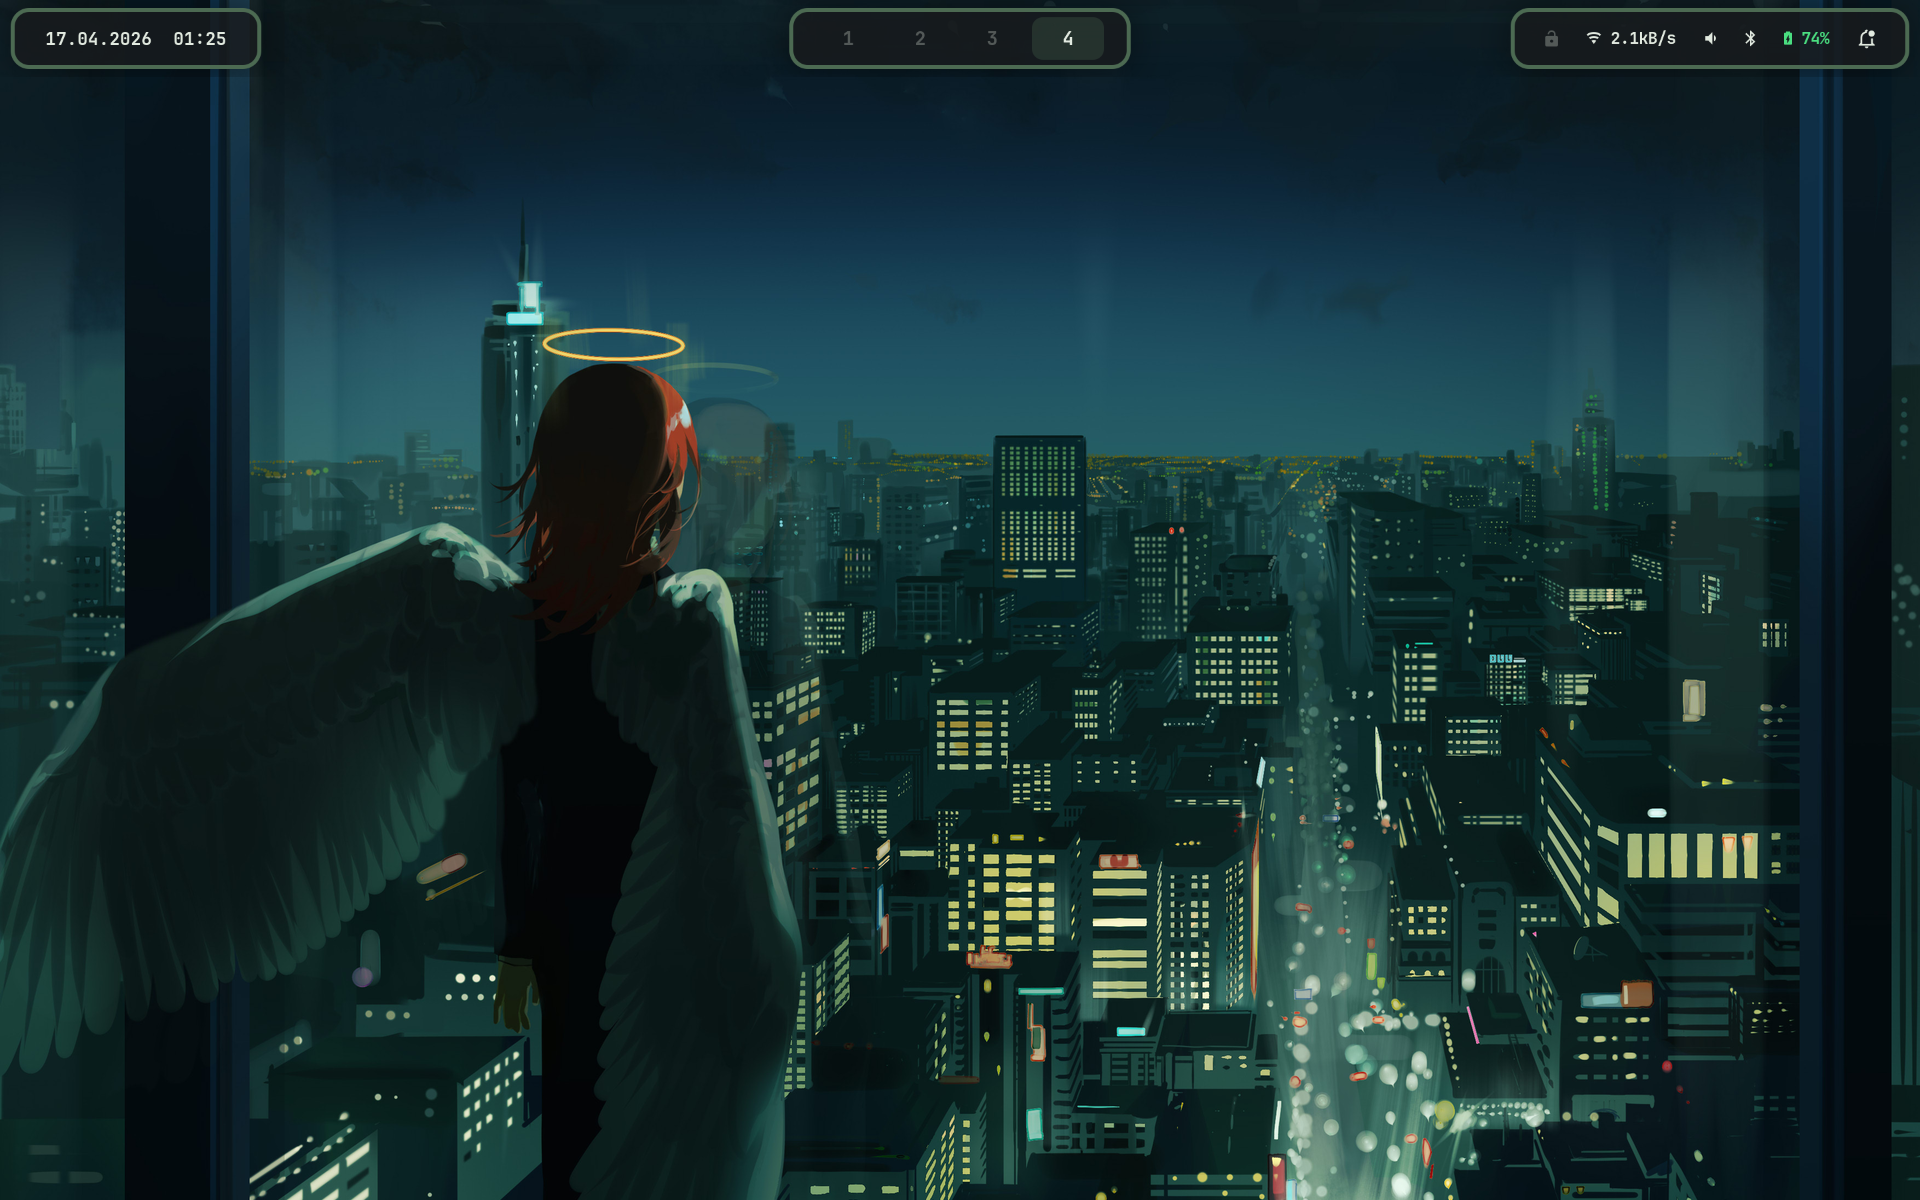
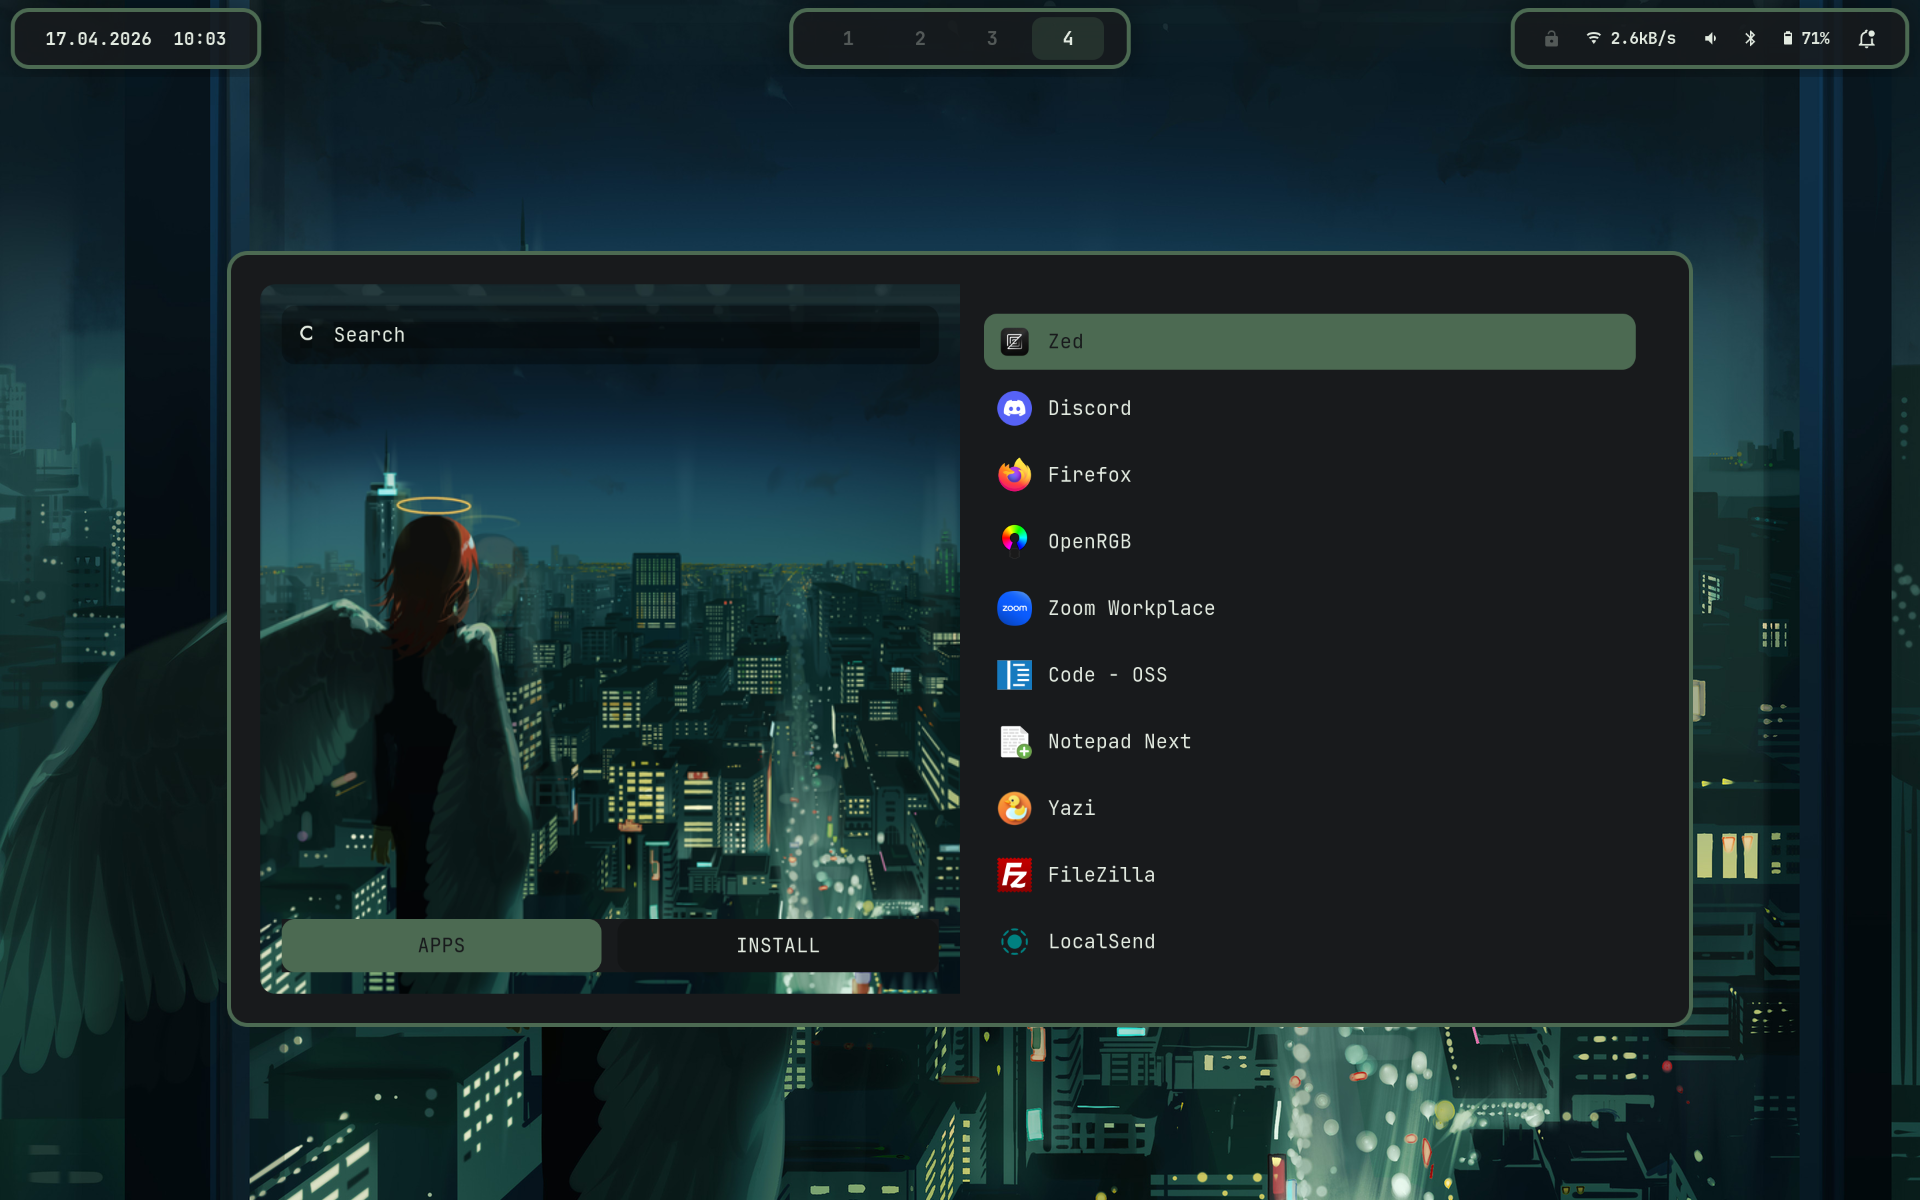
Enhance wallpaper picker, recorder, and README
Use relative paths in the wallpaper switcher so categories are
searchable and show those paths in rofi; add mainMod+Shift+G to
pick a random wallpaper. Increase rofi confirm dialog width.

Strip decimals from screenrecord geometry, add an EXIT trap to
clean the lockfile, and prefer h264 GPU encoding with CPU fallback.

Add overview and rofi menu screenshots and corresponding README
sections.

diff --git a/README.md b/README.md
@@ -32,6 +32,12 @@
 
 ## Screenshots
 
+### Overview
+
+<div align="center">
+  <img src="screenshots/overview.gif" width="900"/>
+</div>
+
 <table>
   <tr>
     <td align="center"><strong>Desktop Overview</strong></td>
@@ -50,6 +56,11 @@
     <td><img src="screenshots/hyprlock.png" width="430"/></td>
   </tr>
 </table>
+
+<div align="center">
+  <strong>Rofi Menus</strong><br/>
+  <img src="screenshots/rofi-menus-collage.png" width="900"/>
+</div>
 
 ---
 
